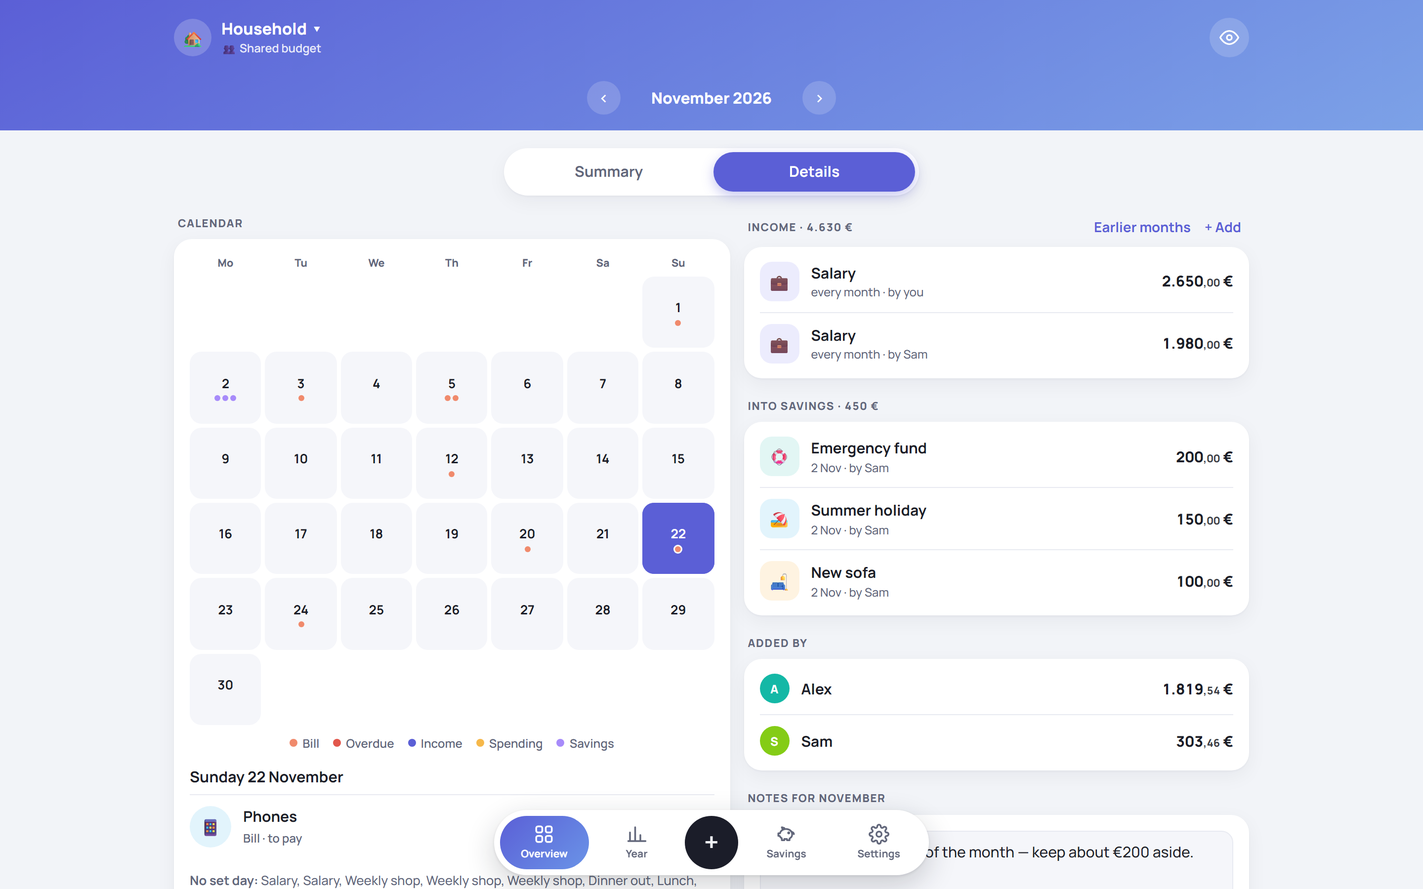
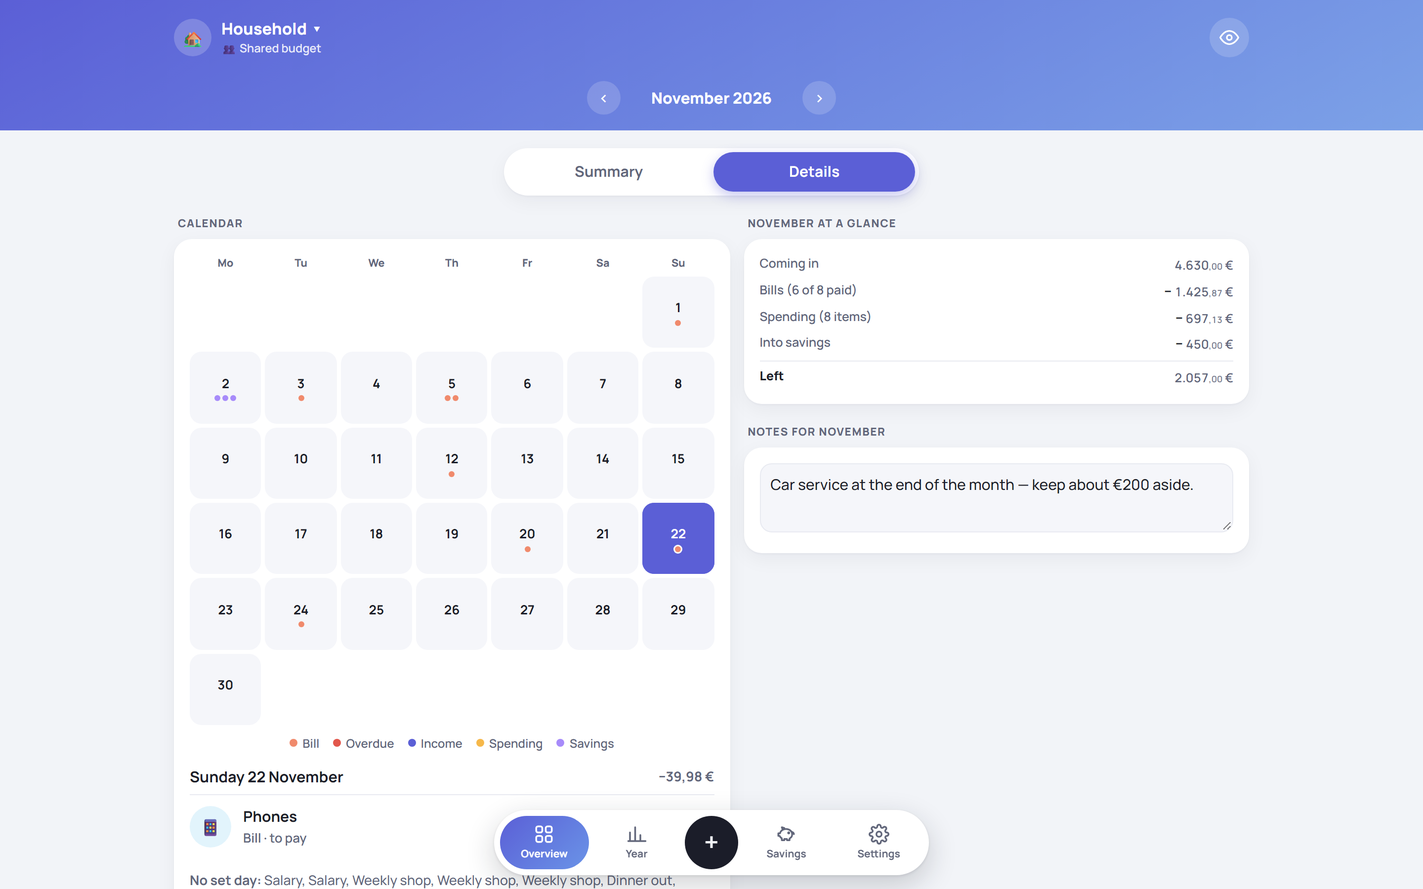
Actionable insights (month-end outlook first, clearer wording), recently used categories first, goal history chart and '+€ this month', day totals and month-at-a-glance beside the calendar, last-month comparison, larger secondary text, more room above the bottom bar (20261122l)

diff --git a/docs/index.html b/docs/index.html
@@ -60,7 +60,7 @@ button{cursor:pointer}
 .money small{font-size:.72em;font-weight:inherit;opacity:.85}
 body.hide .money{filter:blur(.42em);user-select:none}
 .muted{color:var(--muted)} .good{color:var(--good)} .bad{color:var(--bad)} .warn{color:var(--warn)}
-.small{font-size:.86em}
+.small{font-size:.9em}
 
 /* ---------- coloured header ---------- */
 .head{background:linear-gradient(150deg,var(--head1),var(--head2));color:#fff;padding-top:env(safe-area-inset-top)}
@@ -337,7 +337,7 @@ input:focus,select:focus,textarea:focus{outline:2px solid var(--accent);outline-
 .fnav button .lb{display:block;white-space:nowrap}
 .fnav button.on{background:linear-gradient(135deg,var(--accent),color-mix(in srgb,var(--accent) 55%,#7dd3fc));color:#fff}
 .fnav .plus{flex:none;width:54px;background:var(--text);color:var(--bg);font-size:26px;font-weight:600}
-body{padding-bottom:calc(100px + env(safe-area-inset-bottom))}
+body{padding-bottom:calc(120px + env(safe-area-inset-bottom))}
 .bnav,.fab,.tabs{display:none!important}
 @media (max-width:420px){ .kpi .kv{font-size:1.1em} .gaugecard .gv{font-size:1.85em} }
 
@@ -368,9 +368,18 @@ body{padding-bottom:calc(100px + env(safe-area-inset-bottom))}
 .savempty::after{width:120px;height:120px;bottom:-50px;left:-40px;background:color-mix(in srgb,var(--save) 18%,transparent)}
 .savempty>*{position:relative;z-index:1}
 .savempty .e{font-size:3.2em}
+
+/* polish: bigger secondary text, goal history bars */
+.item .meta,.row2 .mn span,.kpi .ks,.tile .s,.gs,.ks{font-size:.86em}
+.kpi .kh,.mrow .k,.fc span{font-size:.88em}
+.gbars{display:grid;grid-template-columns:repeat(6,1fr);gap:8px;align-items:end;height:118px;padding:4px 2px 0}
+.gbars>div{display:flex;flex-direction:column;align-items:center;justify-content:flex-end;gap:4px;height:100%}
+.gbars i{display:block;width:70%;border-radius:6px}
+.gbars b{font-size:.74em;color:var(--muted)}
+.gbars .gv2{font-size:.7em;font-weight:800;color:var(--muted);white-space:nowrap}
 </style>
-<script src="config.js?v=20261122k"></script>
-<script type="module" src="cloud.js?v=20261122k"></script>
+<script src="config.js?v=20261122l"></script>
+<script type="module" src="cloud.js?v=20261122l"></script>
 </head>
 <body>
 <div id="app"></div>
@@ -379,7 +388,7 @@ body{padding-bottom:calc(100px + env(safe-area-inset-bottom))}
 
 <script>
 "use strict";
-const APP_VERSION = "20261122k";
+const APP_VERSION = "20261122l";
 // demo mode: no Firebase config, or ?demo on a local test server (never touches the real account)
 const LOCAL = !window.BUDGET_FIREBASE || (/^(localhost|127\.0\.0\.1)$/.test(location.hostname) && /[?&]demo\b/.test(location.search));
 
@@ -594,8 +603,8 @@ function insights(m) {
     const diffs = [...new Set([...Object.keys(cur), ...Object.keys(prev)])].map(id => ({ id, d: r2((cur[id] || 0) - (prev[id] || 0)), was: prev[id] || 0 }));
     const up = diffs.filter(x => x.d >= 20 && (x.was === 0 || x.d / x.was >= .1)).sort((a, z) => z.d - a.d)[0];
     const down = diffs.filter(x => x.d <= -20 && x.was > 0 && -x.d / x.was >= .1).sort((a, z) => a.d - z.d)[0];
-    if (up) out.push({ key: "up:" + up.id, icon: "📈", tone: "warn", html: `<b>${esc(cat(up.id).name)}</b>: ${R(up.d)} more than last month.` });
-    if (down) out.push({ key: "down:" + down.id, icon: "📉", tone: "good", html: `<b>${esc(cat(down.id).name)}</b>: ${R(down.d)} less than last month.` });
+    if (up) out.push({ key: "up:" + up.id, icon: "📈", tone: "warn", html: `Spending on <b>${esc(cat(up.id).name)}</b> is ${R(up.d)} higher than last month.` });
+    if (down) out.push({ key: "down:" + down.id, icon: "📉", tone: "good", html: `Spending on <b>${esc(cat(down.id).name)}</b> is ${R(down.d)} lower than last month.` });
     const pct = change(t.out, p.out);
     if (pct != null && Math.abs(pct) >= 5) out.push({ key: "out", icon: pct < 0 ? "✅" : "⚠", tone: pct < 0 ? "good" : "warn", html: `Everything going out is <b>${pct < 0 ? "down" : "up"} ${Math.abs(pct)}%</b> on last month.` });
     const sv = r2(t.saved - p.saved);
@@ -607,8 +616,13 @@ function insights(m) {
     else if (f >= .8) out.push({ key: "near:" + L.id, icon: "⏳", tone: "warn", html: `You're at <b>${Math.round(f * 100)}%</b> of your ${esc(L.c.name)} limit.` });
   }
   const top = Object.entries(cur).sort((a, z) => z[1] - a[1])[0];
-  if (top && t.out > 0) out.push({ key: "top:" + top[0], icon: "🏠", tone: "", html: `<b>${esc(cat(top[0]).name)}</b> is your biggest cost this month (${Math.round(top[1] / t.out * 100)}% of everything going out).` });
-  return out.slice(0, 4);
+  if (top && t.out > 0) out.push({ key: "top:" + top[0], icon: "🏠", tone: "", html: `<b>${esc(cat(top[0]).name)}</b> takes ${Math.round(top[1] / t.out * 100)}% of everything going out this month.` });
+  // the one that leads to a decision comes first: where this month is heading
+  const fc = forecast(m);
+  if (fc && (fc.income || fc.bills || fc.spent)) out.unshift(fc.end >= 0
+    ? { key: "fc", icon: "🎯", tone: "good", html: `You're on track to finish ${esc(monthName(m, { month: "long" }))} with <b>${R(fc.end)} left</b>.` }
+    : { key: "fc", icon: "⚠", tone: "bad", html: `At this rate ${esc(monthName(m, { month: "long" }))} ends <b>${R(fc.end)} short</b>. Holding back on spending would close the gap.` });
+  return out.slice(0, 5);
 }
 // every bill in a calendar year: how often, which months, and its total (one-month changes and skips included)
 function billsPlan(year) {
@@ -773,6 +787,7 @@ function renderSummary(m, t, items, l, b) {
     <div class="ttl"><b>This month's money</b><span class="muted small">${Math.round(frac * 100)}% used</span></div>
     <div class="mrow"><span><span class="k">Going out</span><br><span class="v">${money(used)}</span></span><span style="text-align:right"><span class="k">Coming in</span><br><span class="v">${money(pot)}</span></span></div>
     <div class="mbar"><i style="width:${frac * 100}%;${t.left < 0 ? "background:var(--bad)" : ""}"></i></div>
+    ${prev.income || prev.out ? `<div class="muted small" style="margin-bottom:6px">Last month: ${money(prev.out + prev.saved, { round: true })} out of ${money(prev.income + Math.max(0, prev.carry), { round: true })} · ${money(prev.left, { round: true })} left ${chip(change(t.left, prev.left), false)}</div>` : ""}
     <div class="small" style="font-weight:600">${t.left >= 0 ? `<b class="good">${money(t.left)}</b> left after bills, spending and savings.` : `<b class="bad">${money(-t.left)}</b> more going out than coming in.`}</div>
   </div>`;
 
@@ -878,7 +893,7 @@ function renderCalendar(m, items) {
   return `<div><div class="sec"><span>Calendar</span></div><div class="card">
     <div class="cal">${["Mo", "Tu", "We", "Th", "Fr", "Sa", "Su"].map(w => `<span class="wd">${w}</span>`).join("")}${cells.join("")}</div>
     <div class="dots" style="margin-top:10px"><span><i style="background:var(--out)"></i>Bill</span><span><i style="background:var(--bad)"></i>Overdue</span><span><i style="background:var(--accent)"></i>Income</span><span><i style="background:var(--spend)"></i>Spending</span><span><i style="background:var(--save)"></i>Savings</span></div>
-    ${sel ? `<div class="ttl" style="margin-top:14px"><b>${esc(selLabel)}</b></div>${list.length ? list.map(row).join("") : `<p class="muted small" style="margin:2px 0">Nothing on this day.</p>`}` : `<p class="muted small" style="margin:12px 0 0">Tap a day to see what's on it.</p>`}
+    ${sel ? `<div class="ttl" style="margin-top:14px"><b>${esc(selLabel)}</b>${list.length ? `<span class="muted small" style="font-weight:700">${(() => { const inn = sum(list.filter(i => i.type === "income"), i => i.amt), outv = sum(list.filter(i => i.type !== "income"), i => i.amt); return [inn ? `<span class="good">+${money(inn, { raw: true })}</span>` : "", outv ? `−${money(outv, { raw: true })}` : ""].filter(Boolean).join(" · "); })()}</span>` : ""}</div>${list.length ? list.map(row).join("") : `<p class="muted small" style="margin:2px 0">Nothing on this day.</p>`}` : `<p class="muted small" style="margin:12px 0 0">Tap a day to see what's on it.</p>`}
     ${noDay.length ? `<p class="muted small" style="margin:12px 0 0"><b>No set day:</b> ${noDay.slice(0, 8).map(i => esc(i.name)).join(", ")}${noDay.length > 8 ? ` and ${noDay.length - 8} more` : ""}</p>` : ""}
   </div></div>`;
 }
@@ -900,9 +915,20 @@ function renderDetails(m, t, items, l, b) {
       `<div class="item" style="cursor:default">${avatar(u)}<div class="main"><div class="name">${esc(nameOf(u))}</div></div><div class="amt">${money(v)}</div></div>`).join("")}</div></div>`;
   }
   const md = S.months[m] || {};
+  const glance = `<div><div class="sec"><span>${esc(monthName(m, { month: "long" }))} at a glance</span></div><div class="card"><div class="fc" style="font-size:.95em">
+      <div><span>Coming in</span><b class="good">${money(t.income + t.carry)}</b></div>
+      <div><span>Bills (${t.billCount - t.unpaidCount} of ${t.billCount} paid)</span><b>− ${money(t.bills)}</b></div>
+      <div><span>Spending (${spend.length} item${spend.length === 1 ? "" : "s"})</span><b>− ${money(t.spend)}</b></div>
+      ${t.saved ? `<div><span>Into savings</span><b>− ${money(t.saved)}</b></div>` : ""}
+      <div style="border-top:1px solid var(--line);padding-top:6px"><span style="color:var(--text);font-weight:800">Left</span><b class="${t.left < 0 ? "bad" : "good"}">${money(t.left)}</b></div>
+    </div></div></div>`;
+  const notes = `<div><div class="sec">Notes for ${esc(monthName(m, { month: "long" }))}</div><div class="card"><textarea id="note" placeholder="Anything to remember this month…">${esc(md.note || "")}</textarea></div></div>`;
   return `<div class="grid two">
+    <div class="grid">${renderCalendar(m, items)}</div>
+    <div class="grid">${glance}${notes}</div>
+  </div>
+  <div class="grid two" style="margin-top:14px">
     <div class="grid">
-      ${renderCalendar(m, items)}
       ${section("Bills", bills, "bill", t.bills, "billsCard", bills.length ? `<button class="lk" data-act="sort">${({ due: "By date", amount: "By amount", name: "A–Z", unpaid: "Unpaid first" })[l.billSort] || "By date"}</button>` : "")}
       ${section("Spending", spend, "spend", t.spend, "spendCard")}
     </div>
@@ -910,7 +936,6 @@ function renderDetails(m, t, items, l, b) {
       ${section("Income", inc, "income", t.income, "incCard", `<button class="lk" data-act="backfill" data-type="income">Earlier months</button>`)}
       ${moves.length ? `<div><div class="sec"><span>Into savings · ${money(t.saved, { round: true })}</span></div><div class="card flat">${moves.map(d => `<div class="item" data-act="gview" data-id="${esc(d.goal.id)}"><div class="emo" style="background:${d.goal.color || "#8b5cf6"}1f">${esc(d.goal.emoji || "🐷")}</div><div class="main"><div class="name">${esc(d.goal.name)}</div><div class="meta">${esc(new Date(d.d).toLocaleDateString("en-GB", { day: "numeric", month: "short" }))}${b?.kind === "shared" && d.by ? " · by " + esc(whoName(d.by)) : ""}</div></div><div class="amt">${money(num(d.a))}</div></div>`).join("")}</div></div>` : ""}
       ${whoCard}
-      <div><div class="sec">Notes for ${esc(monthName(m, { month: "long" }))}</div><div class="card"><textarea id="note" placeholder="Anything to remember this month…">${esc(md.note || "")}</textarea></div></div>
     </div>
   </div>`;
 }
@@ -971,6 +996,8 @@ function renderYear() {
 }
 
 function goalSaved(g) { return sum(g.moves || [], d => num(d.a)); }
+// net money into a goal per month, oldest first: [{ m, v }]
+function goalMonths(g, n = 6) { const end = mi(thisMonth()); return Array.from({ length: n }, (_, k) => { const m = mk(end - n + 1 + k); return { m, v: sum((g.moves || []).filter(d => (d.d || "").startsWith(m)), d => num(d.a)) }; }); }
 function renderGoals() {
   const gs = [...S.goals].sort((a, b) => (a.createdAt || 0) - (b.createdAt || 0));
   const total = sum(gs, goalSaved), target = sum(gs, g => num(g.target));
@@ -985,6 +1012,7 @@ function renderGoals() {
         <div class="top"><span class="emo" style="background:${g.color || "#8b5cf6"}1f">${esc(g.emoji || "🐷")}</span><b>${esc(g.name)}</b>${tg && s >= tg ? "🎉" : ""}</div>
         <div class="big">${money(s)} ${tg ? `<span class="of">of ${money(tg, { round: true })}</span>` : ""}</div>
         ${tg ? `<div class="bar"><i style="width:${pct}%;background:${g.color || "#8b5cf6"}"></i></div>` : ""}
+        ${(() => { const now = goalMonths(g, 1)[0].v; return now ? `<div class="muted small" style="margin:-2px 0 8px;font-weight:700"><span class="${now > 0 ? "good" : "bad"}">${now > 0 ? "+" : "−"}${money(Math.abs(now), { round: true })}</span> this month</div>` : ""; })()}
         <div class="ft"><span>${tg ? (s >= tg ? "Reached!" : `${money(tg - s, { round: true })} to go${g.by ? " · by " + esc(monthName(g.by, { month: "short", year: "numeric" })) : ""}`) : "No target"}</span>
           <button class="btn sm pri" data-act="gmove" data-id="${esc(g.id)}" data-dir="1">+ Add money</button></div>
       </div>`; }).join("")}</div>` : `<div class="card welcome savempty"><div class="e">🐷</div><h2 style="margin:6px 0">Saving for something?</h2><p class="muted">A holiday, a new car, an emergency fund… Make a goal, then put money in whenever you can. It shows up in that month's budget too.</p><div class="addrow" style="justify-content:center"><button class="btn pri" data-act="goal">+ New savings goal</button><button class="btn" data-act="billplan">🧾 Plan for next year's bills</button></div></div>`}
@@ -1002,6 +1030,8 @@ function openGoalView(id) {
       <div class="gv">${money(s)}</div><div class="gs">${tg ? `${Math.round(Math.min(1, s / tg) * 100)}% of ${money(tg)}` : "no target set"}</div></div>
     ${plan ? `<p class="small" style="text-align:center">${plan}</p>` : ""}
     <div class="actions"><button class="btn pri" data-act="gmove" data-id="${esc(g.id)}" data-dir="1">+ Put money in</button><button class="btn" data-act="gmove" data-id="${esc(g.id)}" data-dir="-1">− Take out</button></div>
+    ${(() => { const gm = goalMonths(g, 6), mx = Math.max(...gm.map(x => Math.abs(x.v)), 1); if (!gm.some(x => x.v)) return "";
+      return `<h4>Last 6 months</h4><div class="gbars">${gm.map(x => `<div data-tip="${esc(monthName(x.m) + ": " + money(x.v, { raw: true }))}"><span class="gv2">${x.v ? money(x.v, { round: true, raw: true }) : ""}</span><i style="height:${Math.max(3, Math.abs(x.v) / mx * 70)}px;background:${x.v < 0 ? "var(--bad)" : g.color || "var(--save)"}"></i><b>${monthName(x.m, { month: "short" })}</b></div>`).join("")}</div>`; })()}
     ${(g.moves || []).length ? `<h4>History</h4><div>${[...g.moves].sort((a, b) => b.d.localeCompare(a.d)).slice(0, 12).map(d => `<div class="item" style="cursor:default"><div class="main"><div class="name">${num(d.a) >= 0 ? "Put in" : "Took out"}</div><div class="meta">${esc(new Date(d.d).toLocaleDateString("en-GB", { day: "numeric", month: "short", year: "numeric" }))}${d.by && B()?.kind === "shared" ? " · " + esc(whoName(d.by)) : ""}</div></div><div class="amt ${num(d.a) < 0 ? "bad" : ""}">${money(num(d.a))}</div></div>`).join("")}</div>` : ""}
     <div class="actions"><button class="btn" data-act="goal" data-id="${esc(g.id)}">Edit goal</button></div>`);
 }
@@ -1075,8 +1105,15 @@ const head = t => `<h3>${t}<button class="ib x" data-close title="Close">✕</bu
 let toastT;
 function toast(msg) { const t = $("#toast"); t.textContent = msg; t.hidden = false; clearTimeout(toastT); toastT = setTimeout(() => t.hidden = true, 2800); }
 
+// categories, the ones used most recently first (up to 4), then the rest in their usual order
+function recentCats(kind) {
+  const all = cats().filter(c => c.kind === kind), seen = [];
+  for (const e of [...S.entries].sort((a, z) => (z.updatedAt || z.createdAt || 0) - (a.updatedAt || a.createdAt || 0)))
+    if ((e.type === "income") === (kind === "in") && e.category && !seen.includes(e.category) && all.some(c => c.id === e.category)) { seen.push(e.category); if (seen.length === 4) break; }
+  return [...seen.map(id => all.find(c => c.id === id)), ...all.filter(c => !seen.includes(c.id))];
+}
 function catChips(kind, sel) {
-  return cats().filter(c => c.kind === kind).map(c => `<button type="button" class="chip2 ${c.id === sel ? "on" : ""}" data-cat="${esc(c.id)}">${esc(c.emoji)} ${esc(c.name)}</button>`).join("");
+  return recentCats(kind).map(c => `<button type="button" class="chip2 ${c.id === sel ? "on" : ""}" data-cat="${esc(c.id)}">${esc(c.emoji)} ${esc(c.name)}</button>`).join("");
 }
 
 function openEntry(id, type) {

diff --git a/tools/calc-checks.js b/tools/calc-checks.js
@@ -122,9 +122,13 @@ delete S.budgets[0].limits;
 check("forecast with no history uses this month's pace (20,29 in 22 days → 7,38 for the last 8)", (({ more, restDays, end, usual }) => ({ more, restDays, end, usual }))(forecast("2026-11")), { more: 7.38, restDays: 8, end: 1678.83, usual: null });
 S.entries.push(E({ id: "old", type: "spend", name: "Old shop", amount: 300, repeat: "once", start: "2026-10", category: "c9" })); S.dataStamp++; carryCache.clear();
 check("forecast uses the usual monthly spending when there is history", (({ more, end, usual }) => ({ more, end, usual }))(forecast("2026-11")), { more: 279.71, end: 1406.5, usual: 300 });
-check("insights: groceries down, utilities up, biggest cost", insights("2026-11").map(x => x.key), ["up:c5", "down:c9", "out", "top:c4"]);
+check("insights: forecast first, then utilities up, groceries down, total down, biggest cost", insights("2026-11").map(x => x.key), ["fc", "up:c5", "down:c9", "out", "top:c4"]);
 S.entries.pop(); S.dataStamp++; carryCache.clear();
-check("insights: utilities up 38,10 on last month, housing biggest", insights("2026-11").map(x => x.key), ["up:c5", "top:c4"]);
+check("insights: forecast, utilities up 38,10 on last month, housing biggest", insights("2026-11").map(x => x.key), ["fc", "up:c5", "top:c4"]);
+check("forecast insight names the amount left (1.678,83 → 1.679 €)", insights("2026-11")[0].html.replace(/<[^>]+>/g, "").replace(/\s/g, " ").includes("1.679 € left"), true);
+check("no forecast insight for past months", insights("2026-10").some(x => x.key === "fc"), false);
+check("recently used categories come first (rent, utilities, insurance, loans, then the rest)", recentCats("out").slice(0, 5).map(c => c.id), ["c4", "c5", "c7", "c13", "c6"]);
+check("goal history per month (Oct +100, Nov +150 −50)", goalMonths(S.goals[0], 2), [{ m: "2026-10", v: 100 }, { m: "2026-11", v: 100 }]);
 check("no forecast for other months", forecast("2026-10"), null);
 S.budgets[0].limits = { c9: 22 };
 check("insights warn near a limit (20,29 of 22 = 92%)", insights("2026-11").some(x => x.key === "near:c9"), true);

diff --git a/docs/cloud.js b/docs/cloud.js
@@ -29,7 +29,7 @@ if (cfg) {
       [k, v === null ? F.deleteField() : (v && typeof v === "object" && !Array.isArray(v)) ? nulls(v) : v]));
 
     window.Cloud = {
-      version: "20261122k",   // must match APP_VERSION in index.html
+      version: "20261122l",   // must match APP_VERSION in index.html
       signIn: (email, pw) => A.signInWithEmailAndPassword(auth, email, pw),
       signOut: () => A.signOut(auth),
       resetPassword: email => A.sendPasswordResetEmail(auth, email),

diff --git a/README.md b/README.md
@@ -43,7 +43,7 @@ Enter your income and bills once, tick them off as you pay, and always know what
 - **Enter bills once.** Choose how often each one comes (every month, every 2, 3 or 6 months, every year, or just once), and optionally when it ends. It appears in every month on its own.
 - **Tick bills off.** Direct debits (*Autopay*) tick themselves on their due day.
 - **Upcoming payments** show "today", "in 2 days" or "3 days late", with overdue and due-soon warnings.
-- **Insights** in plain words from your own numbers, like "Groceries: €89 less than last month", "Everything going out is down 6%", "You're at 92% of your Eating out limit".
+- **Insights** in plain words from your own numbers, led by where the month is heading ("You're on track to finish November with €2.052 left"), then things like "Groceries: €89 less than last month", "Everything going out is down 6%", "You're at 92% of your Eating out limit".
 - **Month-end forecast:** what's likely left on the last day, based on your usual spending for the rest of the month.
 - **Calendar** (in Details): every bill, payday, purchase and savings move on its day. Overdue bills show in red; tap a day to see what's on it.
 - **Plan for next year's bills:** adds up every bill for next year (which months the irregular ones fall in, too) and tells you how much to put aside each month to have it all by a date you pick — or what they cost spread over the year. One tap turns it into a savings goal like "Bills 2027".
@@ -51,7 +51,7 @@ Enter your income and bills once, tick them off as you pay, and always know what
 - **Fill in earlier months:** started mid-year? One tap counts your current income (and bills) in the months before, so past months and the Year view are right. Past bills are ticked as paid.
 - **Just this month:** change a bill's amount or skip it for one month without touching the others.
 - **Spending limits** for each category, e.g. "€194 left of €600", with "You're doing great 👍", "Getting close" or "Over by …".
-- **Savings goals** with a target and a date. The app works out how much to put aside each month, and money you put in counts in that month's budget.
+- **Savings goals** with a target and a date, "+€150 this month" on each card and a last-6-months chart inside. The app works out how much to put aside each month, and money you put in counts in that month's budget.
 - **The year at a glance:** income per month, going out per month (bars), what's left over, the best month, categories and the biggest bills.
 - **Private budgets for everyone**, plus optional **shared** ones (e.g. "Household") that show who added what.
 - **Make it yours:** theme, 8 colours, 3 text sizes, the page it opens on, bill order, hide-amounts mode, currency and number style, editable categories, carry-over.
@@ -177,7 +177,7 @@ Data layout: `budgets/{id}` (name, kind, owner, members, currency, categories, l
 ## For developers
 
 - **Run locally:** `py -3.12 -m http.server 5174 --bind 127.0.0.1 --directory docs`, then open <http://localhost:5174>. This uses the real project, so add **`?demo`** (<http://localhost:5174/?demo>) for a demo mode that never touches it. Demo mode only works on localhost.
-- **Tests:** `node tools/test.mjs` runs 75 checks of the money maths on a demo copy (never the real database). Run it before every release.
+- **Tests:** `node tools/test.mjs` runs 79 checks of the money maths on a demo copy (never the real database). Run it before every release.
 - **How it's built:** see [ARCHITECTURE.md](ARCHITECTURE.md) for the data, the calculation rules and the access rules.
 - **Screenshots:** `node tools/screenshots.mjs` (Node 22+ and Edge or Chrome) rebuilds everything in `screenshots/` from a demo copy with invented data. Never use a real budget for screenshots.
 - **Releases:** bump the version in **three places together**: `APP_VERSION` in `docs/index.html`, the `?v=` on the `config.js` / `cloud.js` script tags, and `version:` in `docs/cloud.js`.

diff --git a/ARCHITECTURE.md b/ARCHITECTURE.md
@@ -49,7 +49,7 @@ budgets/{bid}/goals/{id}        name, emoji, target, by "YYYY-MM"|null, color, m
 | `safeToSpend(m)` | This month only: max(0, left) ÷ days left including today |
 | `limitsFor(m)` | Each limited category: limit, used (bills + spending, paid or not), done (the paid part) |
 | `forecast(m)` | This month only: left − likely further spending (usual monthly spending of the last 3 months minus what's spent so far; with no history, this month's daily pace × days left) |
-| `insights(m)` | Up to 4 observations: biggest category rise and fall vs last month (≥ €20 and ≥ 10%), total going out ±5% or more, saved ≥ €20 more, limits at 80%+ or over, the biggest cost |
+| `insights(m)` | Up to 5 observations, first the month-end forecast (this month), then: biggest category rise and fall vs last month (≥ €20 and ≥ 10%), total going out ±5% or more, saved ≥ €20 more, limits at 80%+ or over, the biggest cost |
 | `billsPlan(year)` | Every bill in a calendar year: count, months, total (one-month changes and skips included) |
 | `perMonth(total, from, by)` | Monthly amount from `from` to `by` (both included), rounded UP to the cent so it is enough |
 | `backfillStart(e, from)` | For *Fill in earlier months*: the first month on or after `from` that keeps the item's rhythm |
@@ -76,7 +76,7 @@ Checked from outside on 2026-11-22: reads without a login give `PERMISSION_DENIE
 
 ## Tests
 
-- `node tools/test.mjs`: **75 checks** of the money maths on a demo copy, against numbers worked out by hand. They cover parsing amounts, every repeat rule across year ends, one household's month in full, autopay timing, one-month changes and skips, safe-to-spend at month ends, February and leap years, year totals, carry-over, limits, *Fill in earlier months*, formatting, forecast, insights, the bills plan, and backup → restore giving identical totals. **Run it before every release.**
+- `node tools/test.mjs`: **79 checks** of the money maths on a demo copy, against numbers worked out by hand. They cover parsing amounts, every repeat rule across year ends, one household's month in full, autopay timing, one-month changes and skips, safe-to-spend at month ends, February and leap years, year totals, carry-over, limits, *Fill in earlier months*, formatting, forecast, insights, the bills plan, and backup → restore giving identical totals. **Run it before every release.**
 - `node tools/screenshots.mjs`: remakes the README pictures from invented demo data.
 - Still to do: automated tests of `firestore.rules` on the Firebase emulator (needs Java 21).
 
